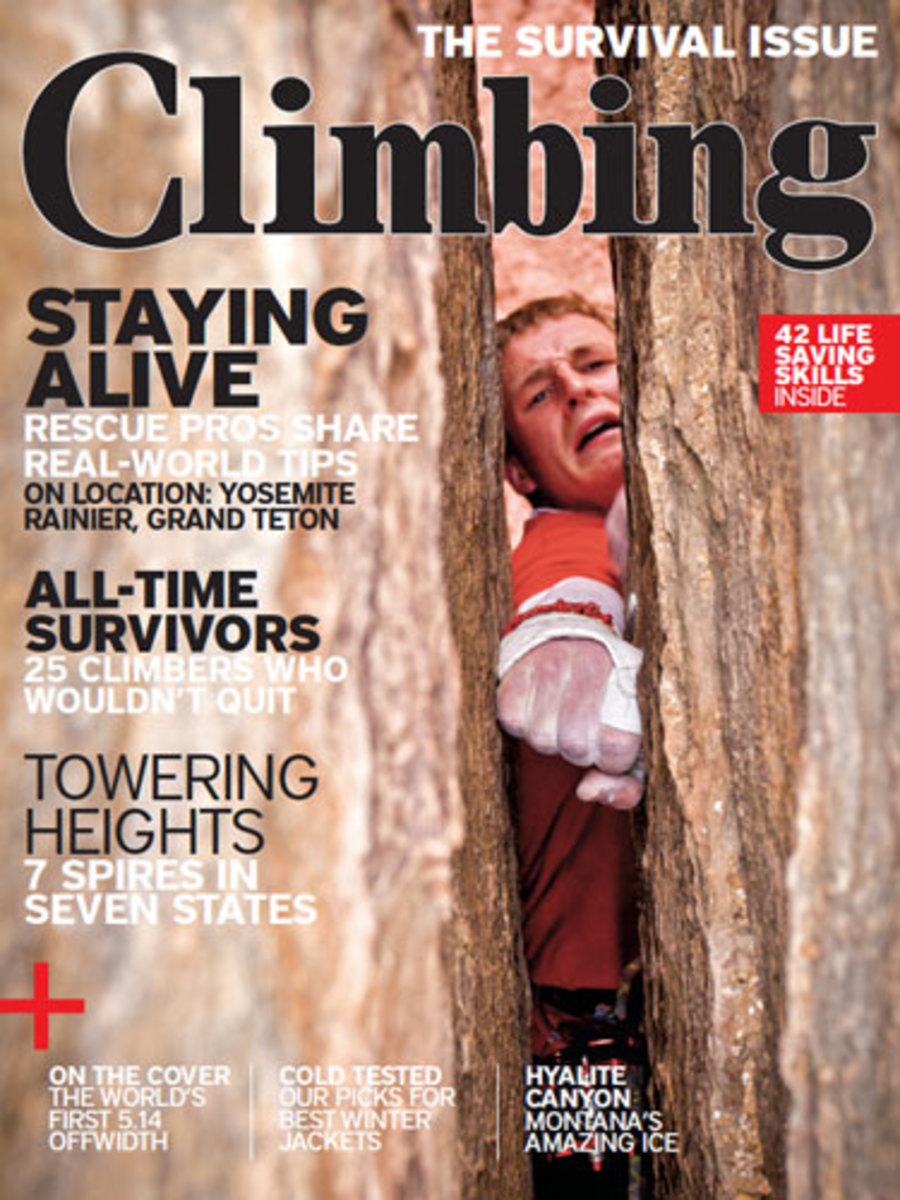
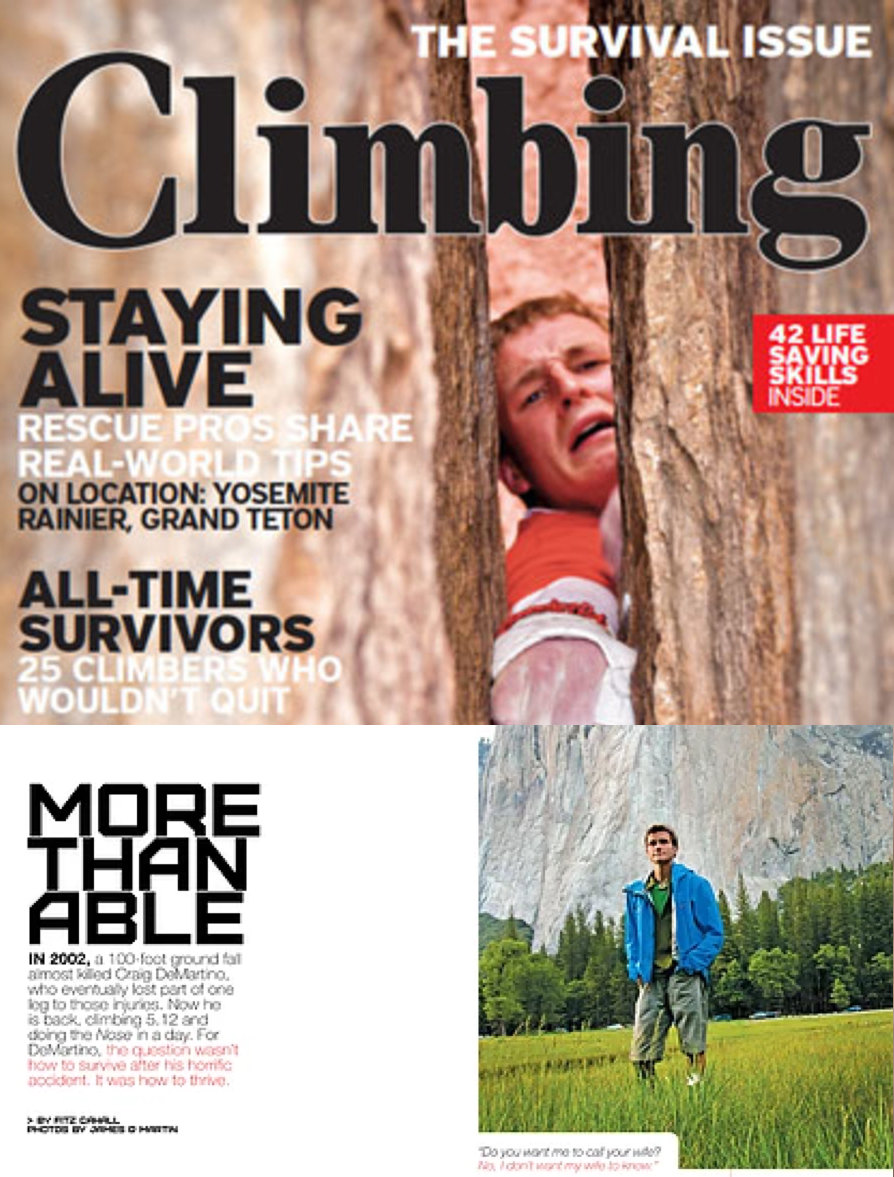
added pic on top of climb mag

diff --git a/style/style.css b/style/style.css
@@ -328,7 +328,7 @@ body {
 
 .sponsors label{
     width:  100%;
-    margin-bottom: 20px;
+    margin-bottom: 45px;
 }
 .thumbSlide{
     cursor: pointer;
